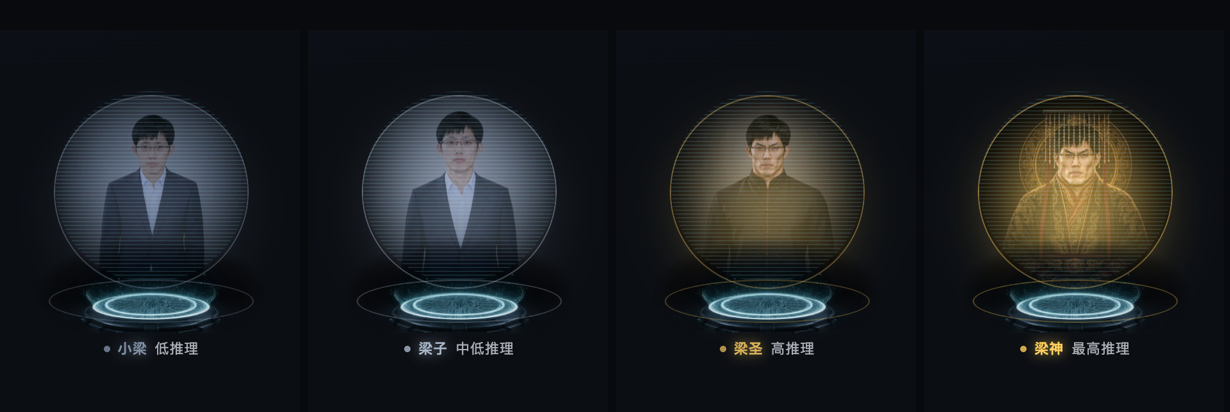
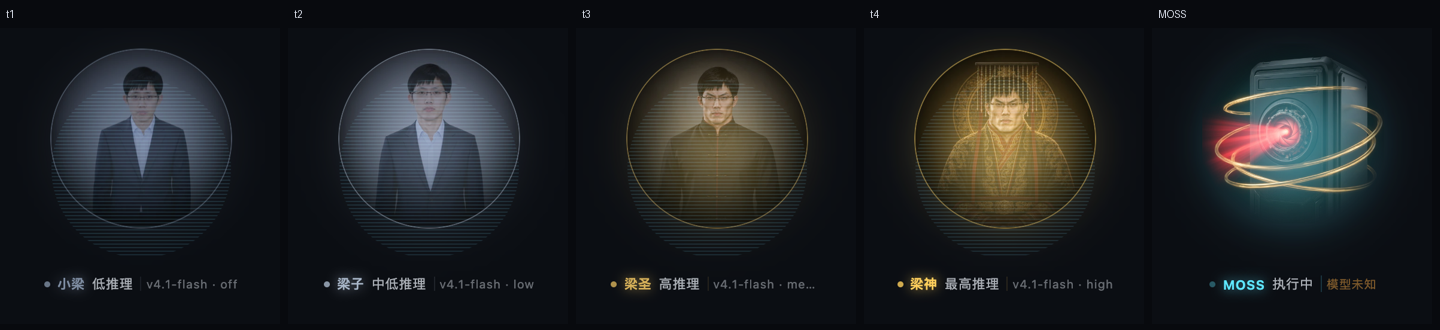
feat: 点击唤起 dsh-bili-widget、去掉背景基座、推理档位合并目录来源
- 点击桌宠优先唤起 dsh-bili-widget（补发 pointerdown/pointerup 到它的 .dy-launch），完整复用它的频道/搜索/历史/迷你/拉伸；未安装时退回内置简化列表
- 移除全息基座背景图与地面光环：立绘/机体直接浮在界面上，只保留氛围光与扫描线
- 推理档位：投影缺 reasoningEffort 时合并模型目录的当前档位与档位序列，并补 on/auto/deep/thinking 等档位别名；HUD 显示 模型 · 档位
- 测试 39/39

diff --git a/client/client.js b/client/client.js
@@ -58,10 +58,15 @@ window.__ModuleLoader__.load({
     var EFFORT_RANK = {
       off: 0,
       none: 0,
+      on: 0.2,
+      auto: 0.5,
+      standard: 0.5,
       minimal: 0.15,
       minimal_effort: 0.15,
       low: 0.35,
       medium: 0.55,
+      deep: 0.86,
+      thinking: 0.86,
       high: 0.86,
       xhigh: 1,
       max: 1,
@@ -216,14 +221,11 @@ window.__ModuleLoader__.load({
       'font-family:ui-sans-serif,system-ui,"Segoe UI",sans-serif;color:var(--dsw-alias-label-primary,#e8edf5);',
       'user-select:none;-webkit-user-select:none;pointer-events:auto;}',
       '#' + ROOT_ID + '{touch-action:none;}',
-      '#' + ROOT_ID + ' .dpl-stage{position:relative;width:196px;height:228px;display:flex;align-items:flex-end;justify-content:center;cursor:grab;}',
+      '#' + ROOT_ID + ' .dpl-stage{position:relative;width:196px;height:196px;display:flex;align-items:flex-end;justify-content:center;cursor:grab;}',
       '#' + ROOT_ID + '.is-dragging .dpl-stage{cursor:grabbing;}',
       '#' + ROOT_ID + '.is-dragging .dpl-figure{animation-play-state:paused;}',
-      '#' + ROOT_ID + ' .dpl-aura{position:absolute;left:50%;bottom:26px;width:190px;height:150px;transform:translateX(-50%);',
+      '#' + ROOT_ID + ' .dpl-aura{position:absolute;left:50%;bottom:34px;width:190px;height:150px;transform:translateX(-50%);',
       'filter:blur(18px);opacity:.55;border-radius:50%;transition:background .6s ease,opacity .6s ease;}',
-      '#' + ROOT_ID + ' .dpl-base{position:absolute;left:50%;bottom:2px;width:186px;transform:translateX(-50%);opacity:.92;pointer-events:none;',
-      '-webkit-mask-image:radial-gradient(ellipse 58% 64% at 50% 62%,#000 42%,rgba(0,0,0,.5) 68%,transparent 84%);',
-      'mask-image:radial-gradient(ellipse 58% 64% at 50% 62%,#000 42%,rgba(0,0,0,.5) 68%,transparent 84%);}',
       '#' + ROOT_ID + ' .dpl-figure{position:relative;width:152px;margin-bottom:36px;mix-blend-mode:screen;',
       'animation:dpl-breathe 4.2s ease-in-out infinite;}',
                   '#' + ROOT_ID + '[data-working="1"] .dpl-figure{animation:dpl-breathe 1.9s ease-in-out infinite;}',
@@ -235,13 +237,10 @@ window.__ModuleLoader__.load({
       'mask-image:radial-gradient(circle at 50% 46%,#000 62%,rgba(0,0,0,.72) 78%,transparent 92%);}',
       '#' + ROOT_ID + '[data-character="liang"] .dpl-figure-wrap{position:relative;}',
       '#' + ROOT_ID + '[data-character="liang"] .dpl-scanlines{opacity:1;}',
-      '#' + ROOT_ID + ' .dpl-scanlines{position:absolute;left:50%;bottom:42px;width:150px;height:150px;border-radius:50%;',
+      '#' + ROOT_ID + ' .dpl-scanlines{position:absolute;left:50%;bottom:12px;width:150px;height:150px;border-radius:50%;',
       'transform:translateX(-50%);pointer-events:none;opacity:0;transition:opacity .3s ease;',
       'background:repeating-linear-gradient(to bottom,rgba(120,220,255,.13) 0 1px,transparent 1px 3px);mix-blend-mode:screen;}',
-'#' + ROOT_ID + ' .dpl-ring{position:absolute;left:50%;bottom:10px;width:158px;height:32px;transform:translateX(-50%);',
-      'border-radius:50%;border:1px solid var(--dpl-aura);opacity:.28;pointer-events:none;}',
-      '#' + ROOT_ID + '[data-working="1"] .dpl-ring{opacity:.75;animation:dpl-spin 3.4s linear infinite;}',
-      '#' + ROOT_ID + ' .dpl-scan{position:absolute;left:50%;bottom:0;width:168px;height:186px;transform:translateX(-50%);',
+      '#' + ROOT_ID + ' .dpl-scan{position:absolute;left:50%;bottom:-8px;width:168px;height:186px;transform:translateX(-50%);',
       'overflow:hidden;pointer-events:none;opacity:0;border-radius:50%;}',
       '#' + ROOT_ID + ' .dpl-scan::after{content:"";position:absolute;left:0;width:100%;height:16px;filter:blur(4px);',
       'background:linear-gradient(to bottom,transparent,var(--dpl-aura),transparent);opacity:.42;',
@@ -433,10 +432,6 @@ window.__ModuleLoader__.load({
 
       var stage = el('div', 'dpl-stage')
       var aura = el('div', 'dpl-aura')
-      var base = el('img', 'dpl-base')
-      base.src = assetUrl('holo-pedestal.webp')
-      base.alt = ''
-      base.draggable = false
       var figure = el('img', 'dpl-figure')
       figure.src = assetUrl('moss-idle.webp')
       figure.alt = ''
@@ -445,13 +440,10 @@ window.__ModuleLoader__.load({
       figure.setAttribute('data-char', 'moss')
       var scanlines = el('div', 'dpl-scanlines')
       var scan = el('div', 'dpl-scan')
-      var ring = el('div', 'dpl-ring')
       stage.appendChild(aura)
-      stage.appendChild(base)
       stage.appendChild(figure)
       stage.appendChild(scanlines)
       stage.appendChild(scan)
-      stage.appendChild(ring)
 
       var hud = el('div', 'dpl-hud')
       var dot = el('span', 'dpl-dot')
@@ -476,6 +468,11 @@ window.__ModuleLoader__.load({
         event.stopPropagation()
         if (suppressClick) return
         if (event.target && event.target.closest && event.target.closest('.dpl-bili')) return
+        /* 装了 dsh-bili-widget 就用它那个完整浮窗；没装才用内置的简单列表 */
+        if (toggleBiliWidget()) {
+          if (biliOpen) closeBili()
+          return
+        }
         void toggleBili()
       })
       document.addEventListener('click', function () {
@@ -530,7 +527,8 @@ window.__ModuleLoader__.load({
       if (stateNode) stateNode.textContent = state.subtitle
       if (modelNode) {
         var tag = state.model || state.provider || ''
-        modelNode.textContent = tag ? tag.replace(/^deepseek[-_]?/i, '') : '模型未知'
+        if (tag) tag = tag.replace(/^deepseek[-_]?/i, '') + (state.effort ? ' · ' + state.effort : '')
+        modelNode.textContent = tag || '模型未知'
         modelNode.setAttribute('data-unknown', tag ? '0' : '1')
       }
       if (aura) aura.style.background = 'radial-gradient(circle,' + state.aura + ' 0%, transparent 68%)'
@@ -716,6 +714,32 @@ window.__ModuleLoader__.load({
       renderBili()
     }
 
+    /**
+     * 优先唤起独立的 dsh-bili-widget 插件（完整的 B 站浮窗：频道/搜索/历史/迷你/拉伸）。
+     * 它的入口是一个只有 pointerdown/up 的悬浮球，所以这里补发一对指针事件。
+     */
+    function toggleBiliWidget() {
+      var launch = document.querySelector('.dy-launch')
+      if (!launch) return false
+      try {
+        var rect = launch.getBoundingClientRect()
+        var base = {
+          bubbles: true,
+          cancelable: true,
+          clientX: rect.left + rect.width / 2,
+          clientY: rect.top + rect.height / 2,
+          button: 0,
+          pointerId: 4242,
+          pointerType: 'mouse',
+        }
+        launch.dispatchEvent(new PointerEvent('pointerdown', Object.assign({ buttons: 1 }, base)))
+        document.dispatchEvent(new PointerEvent('pointerup', Object.assign({ buttons: 0 }, base)))
+        return true
+      } catch (e) {
+        return false
+      }
+    }
+
     function toggleBili() {
       if (biliOpen) return closeBili()
       if (!overlay) return
@@ -847,6 +871,21 @@ window.__ModuleLoader__.load({
 
       /* 目录只用来补「档位序列」，拿不到也不影响判定 */
       var modelState = useModelState(ctx, sessionId)
+
+      /* 投影里有时只带 provider/model，档位要另找：目录的 current.reasoningEffort 或档位序列 */
+      var fromDirectory = readSelection(modelState)
+      if (selection && fromDirectory) {
+        selection = {
+          provider: selection.provider || fromDirectory.provider,
+          model: selection.model || fromDirectory.model,
+          effort: selection.effort || fromDirectory.effort,
+          efforts: selection.efforts.length ? selection.efforts : fromDirectory.efforts,
+          defaultEffort: selection.defaultEffort || fromDirectory.defaultEffort,
+          modelLabel: selection.modelLabel || fromDirectory.modelLabel,
+        }
+      } else if (!selection && fromDirectory) {
+        selection = fromDirectory
+      }
 
       var decision = useMemo(function () {
         return decide({ sessionId: sessionId, running: running, selection: selection, modelState: modelState })
